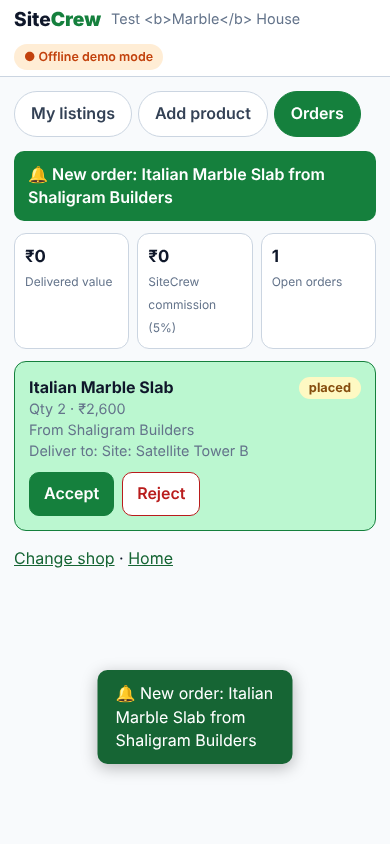
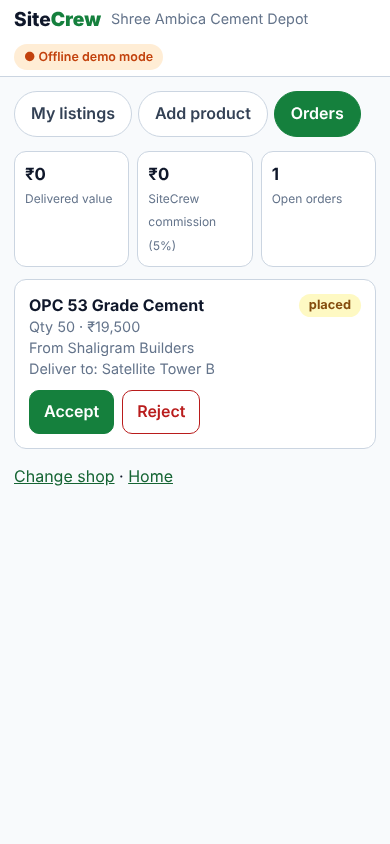
SiteCrew: avoid doubled 'Site:' label, retake clean screenshots
Claude-Session: https://claude.ai/code/session_01YBRURVcqqWEmtNFs4rsqv9

diff --git a/sitecrew/builder.html b/sitecrew/builder.html
@@ -61,6 +61,7 @@
   var esc = SC.esc, inr = SC.inr;
   var PKEY = 'sc_builder', CKEY = 'sc_cart';
   var profile = SC.lsGet(PKEY, null);
+  if (profile) profile.site = SC.cleanSite(profile.site);
   var cart = SC.lsGet(CKEY, {});          // productId -> qty
   var products = [], sellers = [], orders = [];
   var cat = '', tab = 'shop', stepQty = {}; // stepQty: pending qty on each card
@@ -76,11 +77,11 @@
     $('setup').classList.toggle('hide', !!profile);
     $('app').classList.toggle('hide', !profile);
     $('change').classList.toggle('hide', !profile);
-    $('who').textContent = profile ? profile.name + ' · ' + profile.site : '';
+    $('who').textContent = profile ? profile.name + ' · Site: ' + profile.site : '';
     if (!profile) $('cartbar').classList.add('hide');
   }
   $('saveProfile').onclick = function () {
-    var n = $('bName').value.trim(), s = $('bSite').value.trim();
+    var n = $('bName').value.trim(), s = SC.cleanSite($('bSite').value);
     if (!n || !s) { SC.toast('Please enter both name and site'); return; }
     profile = { name: n, site: s }; SC.lsSet(PKEY, profile); showProfile(); render();
   };
@@ -190,7 +191,7 @@
     var rows = Object.keys(cart).map(function (id) {
       var p = prodById(id); if (!p) return null;
       return { product_id: p.id, product_name: p.name, seller_id: p.seller_id, seller_name: p.seller_name,
-        builder_name: profile.name, site: profile.site, qty: cart[id], total: p.price * cart[id], status: 'placed' };
+        builder_name: profile.name, site: SC.cleanSite(profile.site), qty: cart[id], total: p.price * cart[id], status: 'placed' };
     }).filter(Boolean);
     if (!rows.length) return;
     btn.disabled = true;
@@ -213,7 +214,7 @@
       var labels = STEPS.map(function (s, i) { return '<span class="' + (!rej && i <= idx ? 'done' : '') + '">' + s.charAt(0).toUpperCase() + s.slice(1) + '</span>'; }).join('');
       return '<article class="card"><div class="row"><b style="flex:1">' + esc(o.product_name) + '</b><span class="st ' + esc(o.status) + '">' + esc(o.status) + '</span></div>' +
         '<div class="muted">' + esc(o.seller_name) + ' · Qty ' + esc(o.qty) + ' · ' + inr(o.total) + '</div>' +
-        '<div class="muted">To: ' + esc(o.site) + '</div>' +
+        '<div class="muted">To: ' + esc(SC.cleanSite(o.site)) + '</div>' +
         (rej ? '<div class="progress rej">' + bar + '</div><div class="muted" style="color:var(--bad)">Seller could not accept this order.</div>' :
           '<div class="progress">' + bar + '</div><div class="steps">' + labels + '</div>') + '</article>';
     }).join('') || '<p class="muted">No orders yet. Add items and place an order.</p>';

diff --git a/sitecrew/seller.html b/sitecrew/seller.html
@@ -161,7 +161,7 @@
       }).join('');
       return '<article class="card' + (flashIds[o.id] ? ' flash' : '') + '" data-id="' + esc(o.id) + '"><div class="row"><b style="flex:1">' + esc(o.product_name) + '</b><span class="st ' + esc(o.status) + '">' + esc(o.status) + '</span></div>' +
         '<div class="muted">Qty ' + esc(o.qty) + ' · ' + inr(o.total) + '</div>' +
-        '<div class="muted">From ' + esc(o.builder_name) + '<br>Deliver to: ' + esc(o.site) + '</div>' +
+        '<div class="muted">From ' + esc(o.builder_name) + '<br>Deliver to: ' + esc(SC.cleanSite(o.site)) + '</div>' +
         (btns ? '<div class="btns">' + btns + '</div>' : '') + '</article>';
     }).join('') || '<p class="muted">No orders yet. They appear here live.</p>';
   }

diff --git a/sitecrew/app.js b/sitecrew/app.js
@@ -136,6 +136,8 @@
     SC[m] = function () { return be[m].apply(be, arguments); };
   });
   SC.onChange = function (f) { listeners.push(f); };
+  // strip a leading "Site:" so we never show "Site: Site: ..."
+  SC.cleanSite = function (s) { return String(s == null ? '' : s).replace(/^\s*site\s*:\s*/i, '').trim(); };
   SC.emoji = function (cat) { return CATS[cat] || '📦'; };
 
   function paintBadge() {
